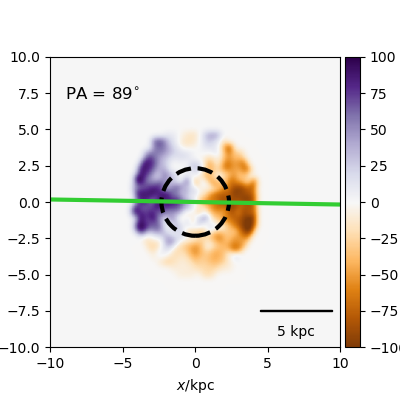
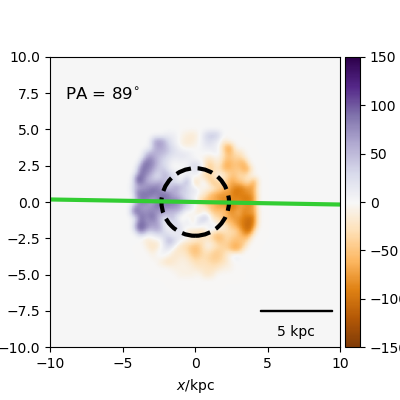
Ray's stellar velocity

diff --git a/r223/galaxy223_StelVelR.py b/r223/galaxy223_StelVelR.py
@@ -10,7 +10,7 @@ filename='/mnt/data0/jillian/gguaman/r223/cosmo25p.768sg1bwK1BHe75.007779'
 redshift=0.01
 image_width=20
 
-stellar_map, stellar_pa, ax = plot_manga_map(filename, redshift, "star", weights="mass", image_width=image_width, orientation="sideon", cmap='PuOr', vmin=-100, vmax=100)
+stellar_map, stellar_pa, ax = plot_manga_map(filename, redshift, "star", weights="mass", image_width=image_width, orientation="sideon", cmap='PuOr', vmin=-150, vmax=150)
 
 #plt.show()
 plt.savefig("galaxy223_StelVelR.png")
